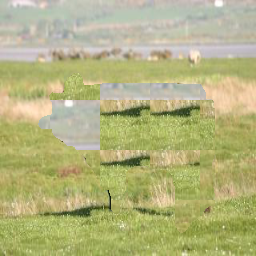
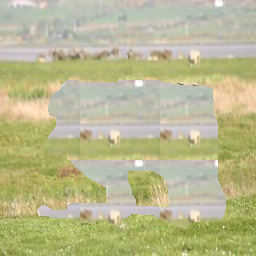
Done with app integration

diff --git a/web/magic_inpaint/region_detection.py b/web/magic_inpaint/region_detection.py
@@ -44,7 +44,6 @@ import cv2
 
 
 from itertools import combinations
-# input are orig_img and selected img after resizing********** 
 
 class RegionDetection:
     def __init__(self, orig_img, selected_img):
@@ -139,10 +138,6 @@ class RegionDetection:
             for h_line in horizontal_lines:
                 intersection_points.append((v_line[0], h_line[1]))
 
-        # plt.tight_layout()
-        # plt.show()
-        # print(intersection_points)
-
         self.coordinates = [(int(x), int(y)) for x, y in intersection_points]
 
         return self.coordinates
@@ -150,16 +145,9 @@ class RegionDetection:
 
      # After knowing the coordinates of the rectangle, we extract a subimage using this coordinates and return it.
     def extract_subimage(self):
-        #top_left , top_right, bottom_left, bottom_right= coordinates
-        # y1=bottom_left[1]  #72
-        # y2=bottom_right[1] #216
-        # x1=bottom_right[0] #51
-        # x2=top_right[0]  #221
         top_left, top_right, bottom_left, bottom_right = self.coordinates
         y1, y2 = bottom_left[1], bottom_right[1]
         x1, x2 = bottom_right[0], top_right[0]
-        # print(y1,y2)
-        # print(x1,x2)
         if(y1>y2 and x1>x2):
             subimage = self.orig_img[y2:y1, x2:x1]
         elif (y2>y1 and x2>x1):
@@ -168,7 +156,6 @@ class RegionDetection:
             subimage = self.orig_img[y2:y1, x1:x2]
         elif (y2>y1 and x1>x2):
              subimage = self.orig_img[y1:y2, x2:x1]
-        #subimage = our_img[ y1:y2 , x1:x2]
         return subimage
     
     
@@ -275,87 +262,6 @@ class RegionDetection:
         return self.region_mask, self.binary_mask
 
 
-
-
-
-
-
-# # Example usage:
-
-# # 1. cow image:
-# #--------------
-# cow_select=io.imread('images-to-be-tested/cow_with_selection.png')
-# cow_orig=io.imread('images-to-be-tested/cow.jpg')
-
-# target_img_size = (256, 256)
-
-# cow_sel_resize = cv2.resize(cow_select, target_img_size)
-# cow_sel_conversion = rgba2rgb(cow_sel_resize)
-# cow_resized_orig = cv2.resize(cow_orig, target_img_size)
-
-
-# # # Create an instance of the RegionDetection class
-# region_detector_1 = RegionDetection(cow_resized_orig, cow_sel_conversion)
-# region_mask, binary_mask=region_detector_1.get_mask_by_region_detection()
-# # print(region_mask)
-# # print(binary_mask)
-
-
-
-# # 2. Garbage-1 image:
-# #--------------
-# garb_select=io.imread('images-to-be-tested/garbage_with_selection.png')
-# garb_orig=io.imread('images-to-be-tested/garbage.jpg')
-
-# garb_sel_resize=cv2.resize(garb_select,target_img_size)
-# garb_sel_conversion=rgba2rgb(garb_sel_resize)
-# garb_resized_orig=cv2.resize(garb_orig,target_img_size)
-
-# # Create an instance of the RegionDetection class
-# region_detector_2 = RegionDetection(garb_resized_orig, garb_sel_conversion)
-# region_mask, binary_mask=region_detector_2.get_mask_by_region_detection()
-# # print(region_mask)
-# # print(binary_mask)
-
-
-
-
-# # 3. Garbage-2 image:
-# #--------------
-
-# garb2_sel=io.imread('images-to-be-tested/garb2_with_sel.png')
-# garb2_orig=io.imread('images-to-be-tested/garb2.jpg')
-
-
-# garb2_sel_resize=cv2.resize(garb2_sel,target_img_size)
-# garb2_sel_conversion=rgba2rgb(garb2_sel_resize)
-# garb2_resized_orig=cv2.resize(garb2_orig,target_img_size)
-
-
-# region_detector_3 = RegionDetection(garb2_resized_orig, garb2_sel_conversion)
-# region_mask, binary_mask=region_detector_3.get_mask_by_region_detection()
-# # print(region_mask)
-# # print(binary_mask)
-
-
-
-# # 3. Man image:                                 GIVES AN ERROR DUE TO NO COORDINATES !!!!!
-# #--------------
-
-# man_sel=io.imread('images-to-be-tested/man_with_sel.png')
-# man_orig=io.imread('images-to-be-tested/man.jpg')
-
-# man_sel_resize=cv2.resize(man_sel,target_img_size)
-# man_sel_conversion=rgba2rgb(man_sel_resize)
-# man_resized_orig=cv2.resize(man_orig,target_img_size)
-
-# # region_detector_4 = RegionDetection(man_resized_orig, man_sel_conversion)
-# # region_mask, binary_mask=region_detector_4.get_mask_by_region_detection()
-# # print(region_mask)
-# # print(binary_mask)
-    
-
-
 class BrushedRegionDetection:
     def __init__(self, img_orig, img_brushed):
         self.img_orig = img_orig
@@ -375,9 +281,9 @@ class BrushedRegionDetection:
         gray_image = rgb2gray(self.img_brushed[:, :, :3])
 
         # Define a threshold value based on your requirement (to be adjusted)
-        threshold_value = 0.1
+        threshold_value = 0
 
-        dark_mask = gray_image < threshold_value
+        dark_mask = gray_image <= threshold_value
 
         return dark_mask
 

diff --git a/web/magic_inpaint/inpainting.py b/web/magic_inpaint/inpainting.py
@@ -48,22 +48,14 @@ from itertools import combinations
 
 
 def MSD(target_patch, exemplar_patch, M_bar):
-    # if not np.isin(1,M_bar):
-    #     return float('inf')
     if np.sum(M_bar)==0:
         return float('inf')
     else:
-     msd=np.sum((M_bar*target_patch - M_bar*exemplar_patch)**2)/np.sum(M_bar)
-     return msd
-    # return msd
+        msd=np.sum((M_bar*target_patch - M_bar*exemplar_patch)**2)/np.sum(M_bar)
+        return msd
 
-    # msd=np.sum((M_bar*target_patch - M_bar*exemplar_patch)**2)
-
-    
 
 def SMD (target_patch, exemplar_patch, binary_mask, M_bar):
-    # if not np.isin(1,M_bar):
-    #     return float('inf')
     if np.sum(M_bar)==0:
         return float('inf')
     if np.sum(binary_mask)==0:
@@ -73,10 +65,6 @@ def SMD (target_patch, exemplar_patch, binary_mask, M_bar):
     smd= (target_existing_avg-exemplar_fill_avg)**2
     return smd 
 
-    # target_existing_avg= np.sum(M_bar * target_patch)
-    # exemplar_fill_avg = np.sum(binary_mask* exemplar_patch)
-    # smd= (target_existing_avg-exemplar_fill_avg)**2
-    # return smd 
 
 def findBestsubPatch(target_patch, exemplar_patches, binary_mask, M_bar):
     best_patch = exemplar_patches[len(exemplar_patches)-1]
@@ -84,7 +72,6 @@ def findBestsubPatch(target_patch, exemplar_patches, binary_mask, M_bar):
 
     for other_patch in exemplar_patches:
         current_error = MSD((rgb2gray(target_patch)*255).astype('uint8'), (rgb2gray(other_patch)*255).astype('uint8'), M_bar) + SMD((rgb2gray(target_patch)*255).astype('uint8'), (rgb2gray(other_patch)*255).astype('uint8'), binary_mask, M_bar)
-        # print(f"Current Error: {current_error}")
 
         if current_error < min_combined_error:
             best_patch = other_patch
@@ -102,11 +89,24 @@ def findBestFullPatch(target_patches, exemplar_patches,binary_mask_patches, M_ba
 
 
 def main(img,binary_mask, overlap=2):
-    patch_size = 50
+
+    white_pixels = np.sum(binary_mask == 1)
+    black_pixels = np.sum(binary_mask == 0)
+
+    ratio = white_pixels / (white_pixels + black_pixels)
+    if ratio < 0.15:
+        overlap = 64
+        patch_size =64
+    elif ratio >0.3:
+        overlap = 80
+        patch_size =80
+    else:
+        overlap = 32
+        patch_size =32
+
     img_in_patches= [img[i:i+patch_size,j:j+patch_size] for i in range(0,img.shape[0]-patch_size+1, overlap) for j in range(0,img.shape[1]-patch_size+1, overlap) ]
     full_binary_mask_patches = [binary_mask[i:i+patch_size,j:j+patch_size] for i in range(0,img.shape[0]-patch_size+1, overlap) for j in range(0,img.shape[1]-patch_size+1, overlap) ]
     #if the patch contains a single 1 then it's subset of the target patch so mark it with 1 in the bit map
-    # bit_map=[ 1 if np.isin(1,full_binary_mask_patches[i]) else 0 for i in range(len(full_binary_mask_patches))]
 
     target_indices=[]
     exemplar_indices=[]
@@ -126,21 +126,13 @@ def main(img,binary_mask, overlap=2):
             binary_mask_patches.append(full_binary_mask_patches[i])
             target_patches.append(img_in_patches[i])
             target_patch_counter+=1
-            # binary_mask_patches.append(binary_mask[start_row:start_row+patch_size])
 
         else:
             exemplar_indices.append((i, start_row, start_col))
             exemplar_patches.append(img_in_patches[i])
 
-
-    # M_bar_patches=[np.where((binary_mask_patches[i]==0)|(binary_mask_patches[i]==1), binary_mask_patches[i]^1, binary_mask_patches) for i in range(len(binary_mask_patches))]
     M_bar_patches=[1-binary_mask_patches[i] for i in range(len(binary_mask_patches))]
-    #TO-DO: call implemented functions
     new_target_patches=findBestFullPatch(target_patches,exemplar_patches,binary_mask_patches,M_bar_patches)
-    print(len(new_target_patches))
-    print(len(target_patches))
-    print("new_target_patches",new_target_patches[0])
-    print(new_target_patches[1])
 
     new_img= np.copy(img)
     for target_index, start_row, start_col in target_indices:
@@ -148,12 +140,3 @@ def main(img,binary_mask, overlap=2):
         new_img[start_row: start_row+patch_size, start_col:start_col+patch_size]=new_target_patches[target_index]
     
     return new_img
-
-    # list of tuples (i,start_row,start_col)
-    '''
-    for target_index, start_row, start_col in target_indices:
-        img[start_row:start_row+patch_size , start_col: start_col+patch_size]=cp_target_patches[target_index]
-        start_row = (i // (img.shape[0] // patch_size)) * patch_size
-        start_col = (i % (img.shape[1] // patch_size)) * patch_size
-    
-    '''

diff --git a/web/magic_inpaint/routes.py b/web/magic_inpaint/routes.py
@@ -96,14 +96,14 @@ def process_image_brush():
     processed_image_conversion = processed_image_resized[:,:,:3]
     original_image_resized = cv2.resize(original_image[:,:,:3], target_img_size)
 
-    # # Create an instance of the RegionDetection class
-    # region_detector_1 = RegionDetection(original_image_resized, processed_image_conversion)
-    # region_mask, binary_mask_test = region_detector_1.get_mask_by_region_detection()
-
     original_image, dark_mask, cleaned_dark_mask= BrushedRegionDetection(original_image_resized, processed_image_conversion).get_desired_masks()
 
-    inpainted_image = main(original_image_resized,cleaned_dark_mask, overlap=50)
+    inpainted_image = main(original_image_resized,cleaned_dark_mask)
     result = postprocessing(inpainted_image, cleaned_dark_mask)
+
+    cleaned_dark_mask = np.array(cleaned_dark_mask, dtype=np.uint8) * 255
+    img = Image.fromarray(cleaned_dark_mask, mode='L')
+    img.save('mask.png')
 
     io.imsave('inpainted.png', inpainted_image)
     io.imsave('result.png', result)
@@ -124,3 +124,24 @@ def process_image_rectangle():
     processed_image_conversion = processed_image_resized[:,:,:3]
     original_image_resized = cv2.resize(original_image[:,:,:3], target_img_size)
 
+    region_detector_1 = RegionDetection(original_image_resized, processed_image_conversion)
+    region_mask, binary_mask_test=region_detector_1.get_mask_by_region_detection()
+    
+    binary_mask_test = binary_mask_test[:,:,0]
+    inpainted_image= main(original_image_resized,binary_mask_test)
+    result = postprocessing(inpainted_image, binary_mask_test)
+
+
+    binary_mask_test = np.array(binary_mask_test, dtype=np.uint8) * 255
+    img = Image.fromarray(binary_mask_test, mode='L')
+    img.save('mask.png')
+
+    io.imsave('inpainted.png', inpainted_image)
+    io.imsave('result.png', result)
+
+    result_image_file_name = 'result.png'
+
+    with open(result_image_file_name, 'rb') as image_file:
+        image_content = image_file.read()
+    
+    return image_content

diff --git a/web/magic_inpaint/postprocessing.py b/web/magic_inpaint/postprocessing.py
@@ -87,7 +87,7 @@ def smudge_mask_region(image, mask, width, intensity):
 def postprocessing(img, mask):
 
     smudge_width = 50
-    smudge_intensity = 0.5
+    smudge_intensity = 0.1
     filter_size = 3
 
     result_image_smoothed = apply_median_filter_rgb(img, mask, filter_size)
